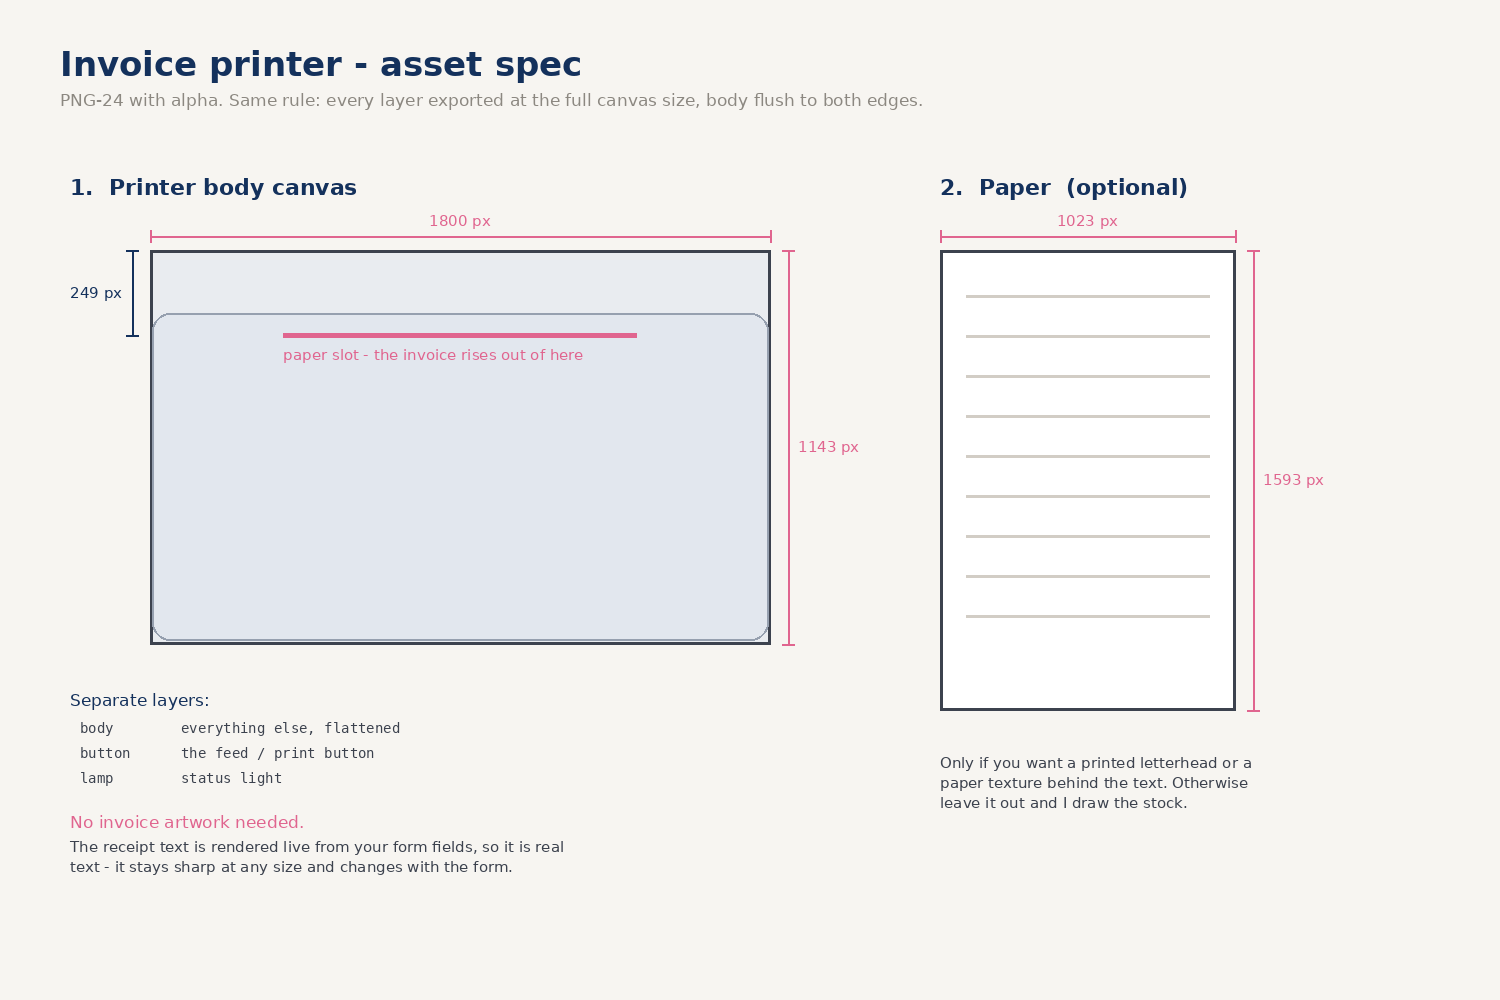
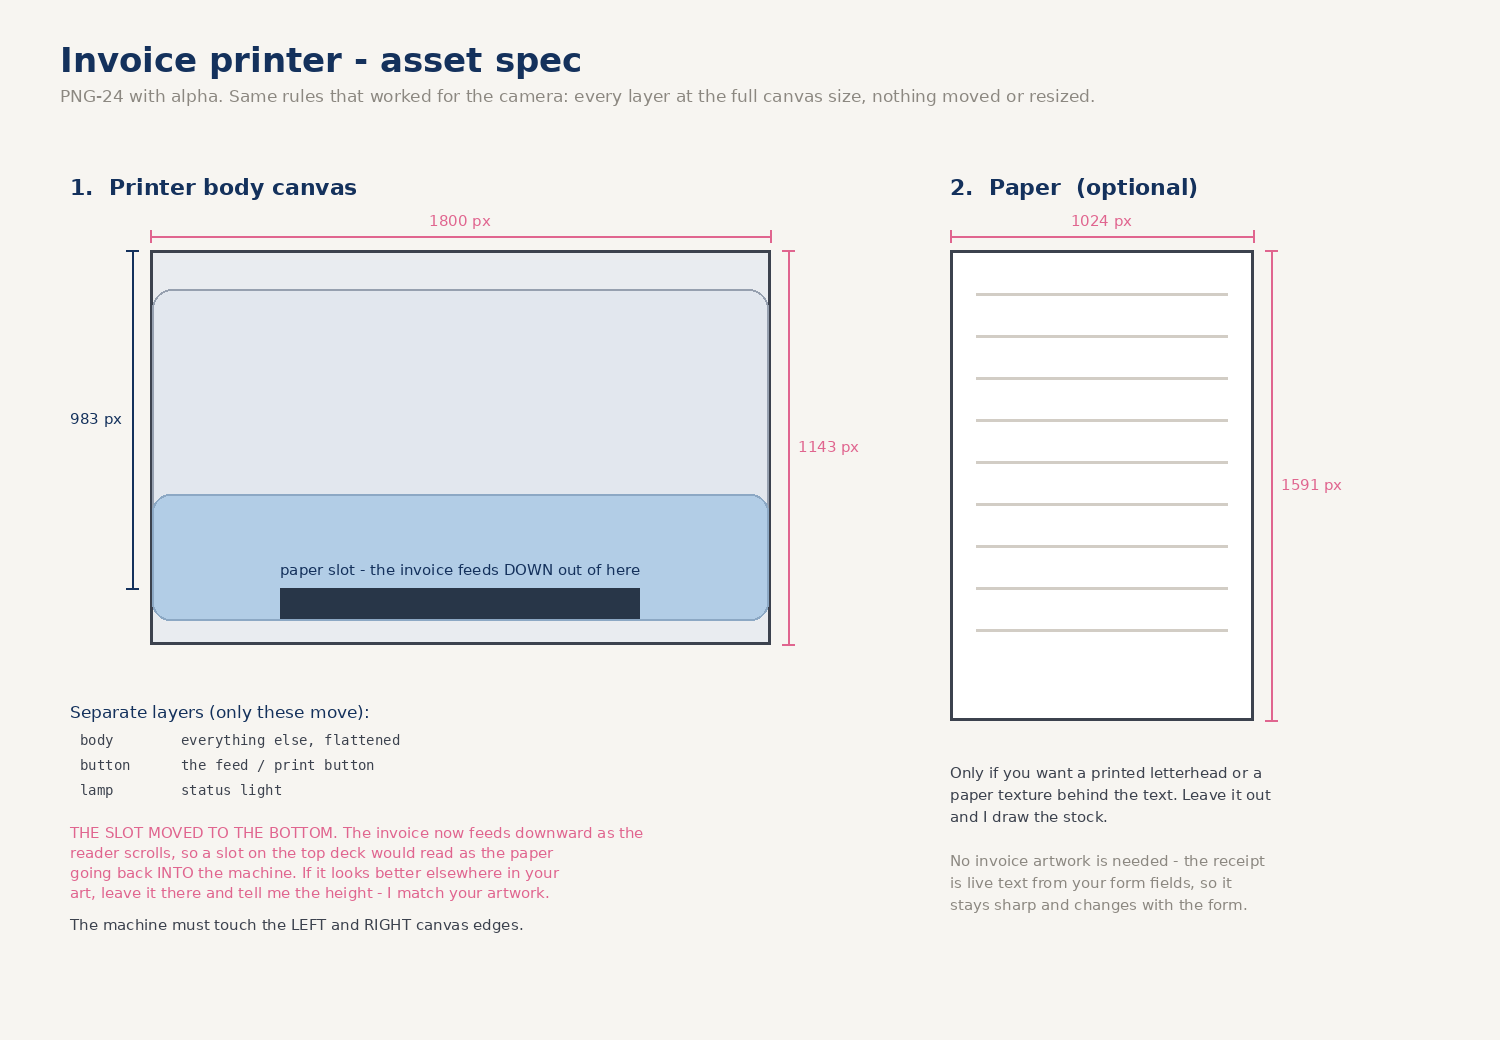
Printer spec sheet redrawn for the downward feed
The old sheet still showed the slot on the top deck, which the build stopped
doing two days ago - a spec diagram that contradicts the build is worse than
no diagram. Slot is now drawn at the front lip: mouth y=983, paper clears at
y=1070, both measured off the built component rather than derived.

Also: the slot caption was first placed below the slot, where it landed on
the canvas border and read as clipped - the one line the panel exists to
give. Moved above it. Third time this has happened on this project.

ASSETS.md now points the designer at the camera's second export as the
worked example, and notes that transparent sockets behind the moving parts
are fine because a backing plate sits under the stack.

diff --git a/ASSETS.md b/ASSETS.md
@@ -92,16 +92,26 @@ otherwise it renders in the closest web-safe match.
 | `button` | the feed / print button |
 | `lamp` | status light |
 
+**Export it exactly the way the camera was exported the second time** — that
+set was right. Every layer on one 1800 × 1143 canvas, each part left where it
+belongs, nothing trimmed and nothing resized. In Photoshop: File > Export >
+Layers To Files with *Trim Layers* unchecked.
+
+Real transparent holes in the body where the button and lamp sit are fine —
+that is what the camera did and it is the better way. I put a plate behind the
+stack so nothing shows through when a part moves.
+
 **The slot moved to the bottom (9 Sep).** The invoice now feeds *downward* as
 the reader scrolls, so the slot belongs on the front lip near the base — at
-about **y = 983** of the 1143, not y = 249. A slot on the top deck with paper
+about **y = 983** of the 1143, not y = 249 — that is the slot mouth; the paper
+clears the front lip at **y = 1070**. A slot on the top deck with paper
 coming out downward reads as the paper going back *into* the machine.
 
 As with the camera, if the slot in your artwork sits somewhere else, leave it
 where it looks right and tell me — I move my number to your art, not the other
 way round.
 
-### Paper — 1023 × 1593, optional
+### Paper — 1024 × 1591, optional
 
 Only needed if you want a printed letterhead or a paper texture behind the text.
 Leave it out and I draw the stock.
